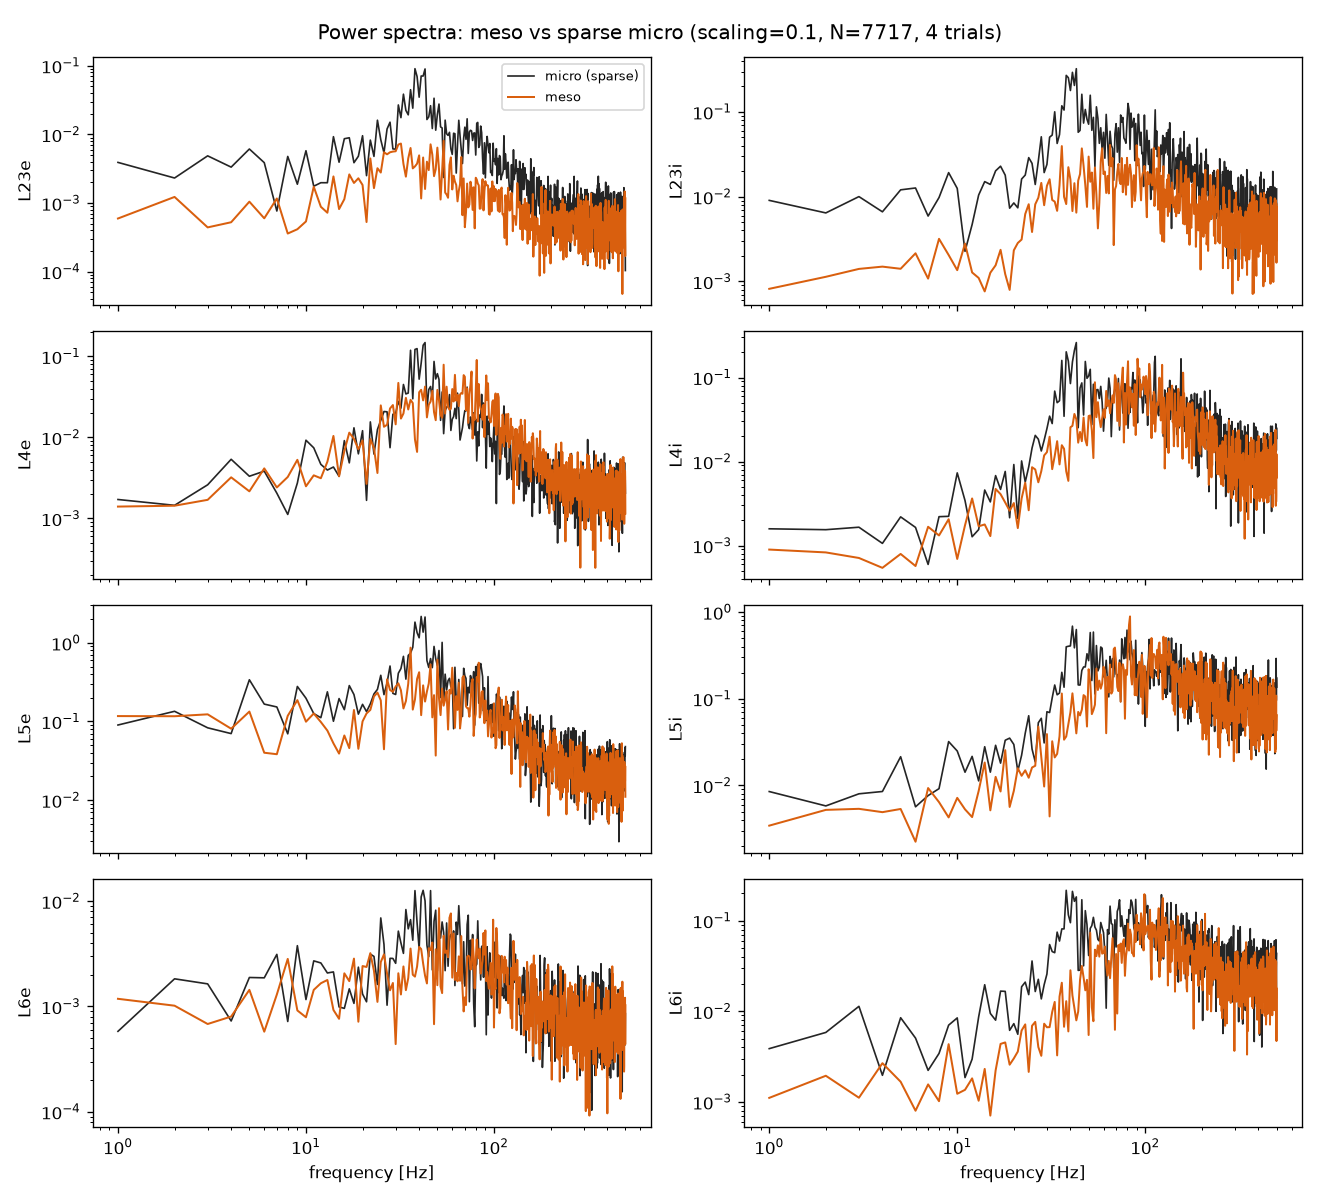
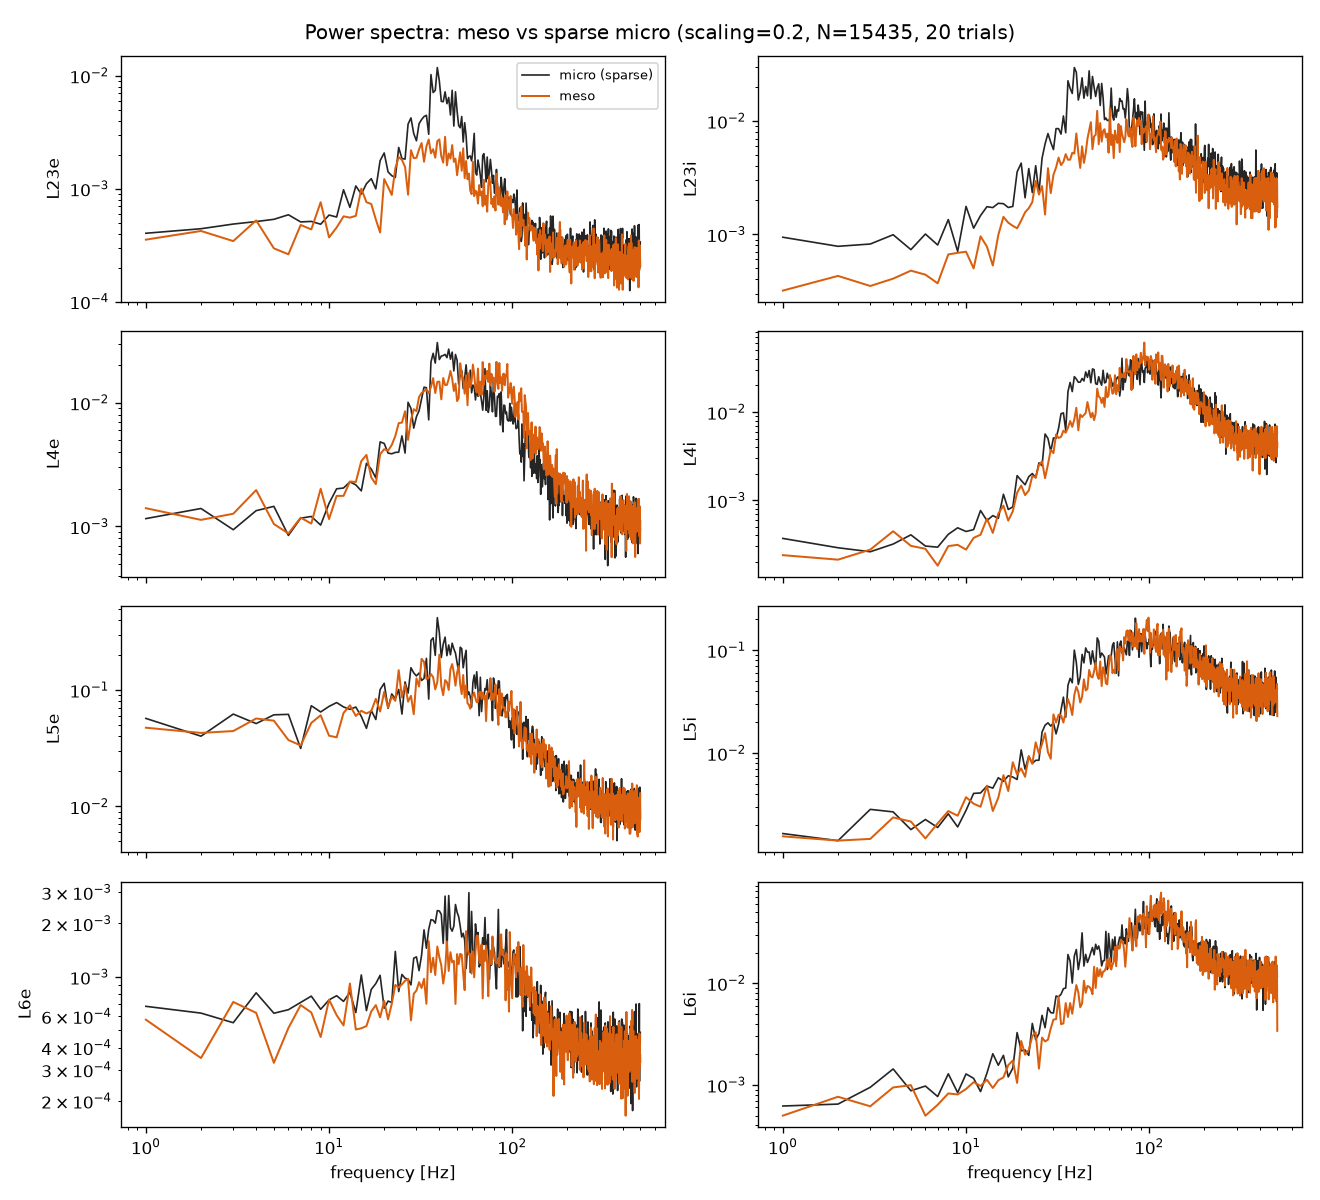
Dynamics validation (20 trials): meso reproduces micro power spectra
PSD log-RMS meso vs sparse micro 0.15-0.21 (~factor 1.4) across all 8 pops,
incl. the ~80-200 Hz fluctuation peak; ISI-CV 0.85-0.94 (balanced AI state).
Meso reproduces temporal structure, not just mean rate. METHODS_RESULTS.md updated.

Changed region(s): [[0.0311, 0.0, 0.9939, 0.9867], [0.2174, 0.9558, 0.3417, 0.9867], [0.497, 0.5858, 0.528, 0.6167]]

diff --git a/docs/METHODS_RESULTS.md b/docs/METHODS_RESULTS.md
@@ -131,8 +131,20 @@ Full-scale mesoscopic, 10 s bio (Julia at 2 s bio, see note):
   model stays accurate (0.25 Hz) over the same range. Validating at reduced
   scale therefore needs either full-scale runs or van-Albada 1/√K weight
   adjustment — the all-to-all comparison hid this entirely.
-- *Caveats:* single seed so far (multi-seed averaging is the next step); Julia
-  ran at T=2 s; only sim time (not setup or energy) is measured.
+- **Multi-seed (correctness error bars).** Seed-to-seed variance of the meso
+  rates is tiny (0.002–0.03 Hz) — the model is highly reproducible. The residual
+  deviations from published rates (notably L4i, 0.26 Hz) therefore are
+  **systematic, not noise** (only 2/8 populations within 1 std). Figure:
+  `validation_multiseed.png`.
+- **Dynamics-level validation (beyond the mean).** Power spectra of meso vs
+  sparse micro agree to a log-RMS of **0.15–0.21** (≈ factor 1.4) across all
+  populations (20 trials), reproducing the characteristic ~80–200 Hz
+  fluctuation peak; micro ISI-CV is **0.85–0.94**, confirming the balanced
+  asynchronous-irregular state. So meso reproduces the temporal structure, not
+  just the mean rate. Figure: `dynamics_psd.png`; data:
+  `results/validation_dynamics_latest.json`.
+- *Caveats:* Julia ran at T=2 s; only sim time (not setup or energy) is
+  measured; the L4i systematic offset is unresolved (parameter calibration?).
 Figures: `cross_backend.png`, `speedup_vs_sparse_micro.png`, `language_comparison.png`;
 data: `results/cross_backend_summary.json`.
 
